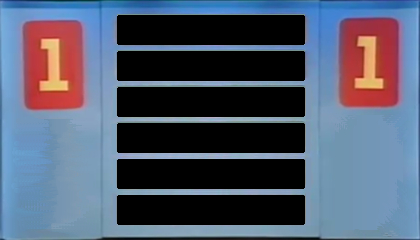
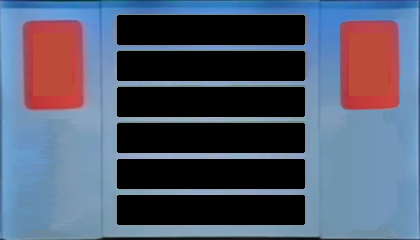
Added level number.

Changed region(s): [[0.7738, 0.0583, 0.9595, 0.4667], [0.0929, 0.1458, 0.1857, 0.4083]]

diff --git a/public/table.js b/public/table.js
@@ -73,6 +73,9 @@ JW.extend(Table, JW.UI.Component, {
 		if (this._timer) {
 			return;
 		}
+		if (!this.opened && (this.level >= DATA.answers.length - 1)) {
+			return;
+		}
 		this.opened = !this.opened;
 		if (this.opened) {
 			this.level = Math.min(DATA.answers.length - 1, this.level + 1);
@@ -91,12 +94,16 @@ JW.extend(Table, JW.UI.Component, {
 			case  0: text = "ДВОЙНАЯ ИГРА"; break;
 			case  1: text = "ТРОЙНАЯ ИГРА"; break;
 			case  2: text = "ИГРА НАОБОРОТ"; break;
-			case  3: text = "БОЛЬШАЯ ИГРА"; break;
+			default: text = "БОЛЬШАЯ ИГРА"; break;
 		}
 		this.getElement("face-text").text(text);
 	},
 	
 	_resetLevel: function() {
+		var imageUrl = "images/level-" + Math.min(4, this.level + 1) + ".png";
+		Util.setBackgroundImage(this.getElement("level-box0"), imageUrl);
+		Util.setBackgroundImage(this.getElement("level-box1"), imageUrl);
+		
 		this.answers.every(function(answer, index) {
 			answer.reset(DATA.answers[this.level][index]);
 		}, this);
@@ -140,8 +147,8 @@ JW.UI.template(Table, {
 			'</div>' +
 			'<div jwid="back">' +
 				'<div jwid="answers" />' +
-				'<div jwid="level-box0" />' +
-				'<div jwid="level-box1" />' +
+				'<div jwid="level-box0" class="table-level-box" />' +
+				'<div jwid="level-box1" class="table-level-box" />' +
 				'<div jwid="penalty-box0" />' +
 				'<div jwid="penalty-box1" />' +
 				'<div jwid="back-mask" class="table-mask" />' +

diff --git a/public/styles.css b/public/styles.css
@@ -52,6 +52,19 @@ html {
 	left: 117px;
 	top: 15px;
 }
+.table-level-box {
+	position: absolute;
+	width: 39px;
+	height: 63px;
+	top: 33px;
+	background: transparent none no-repeat 0 0;
+}
+.table-level-box0 {
+	left: 33px;
+}
+.table-level-box1 {
+	left: 349px;
+}
 .answer {
 	position: absolute;
 	left: 0;

diff --git a/public/data.js b/public/data.js
@@ -2,7 +2,7 @@
 	answerCount  : 6,
 	maxPenalty   : 3,
 	msAnswerOpen : 600,
-	msTableRoll  : 4000,
+	msTableRoll  : 2000,
 	
 	answers : [
 		[
